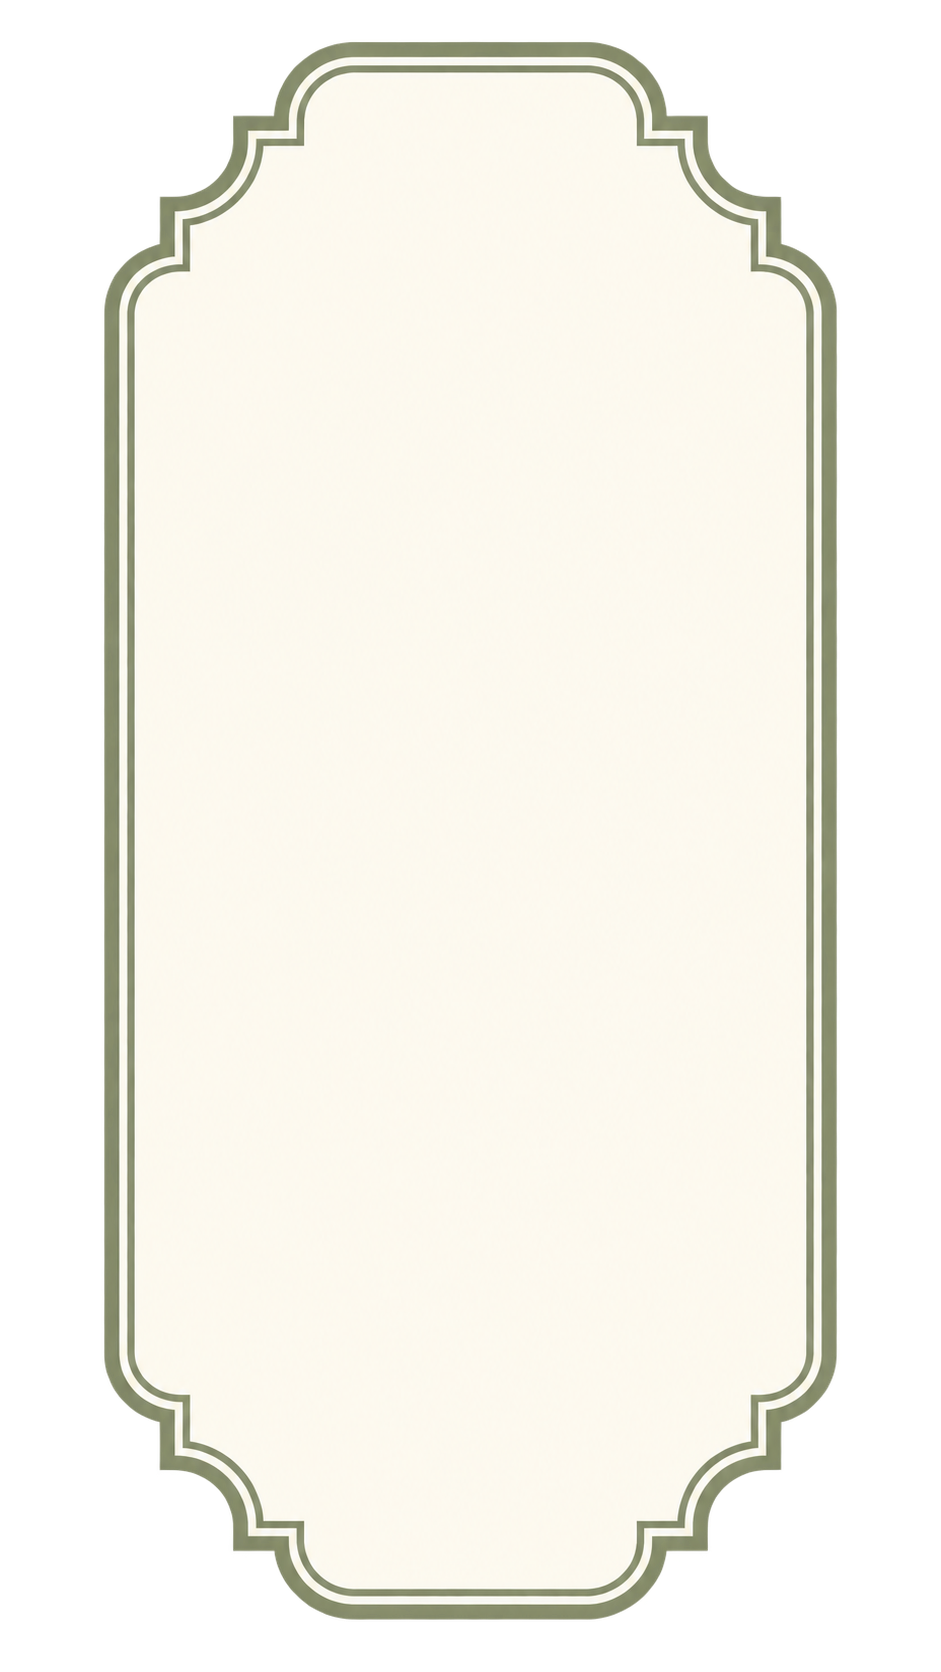
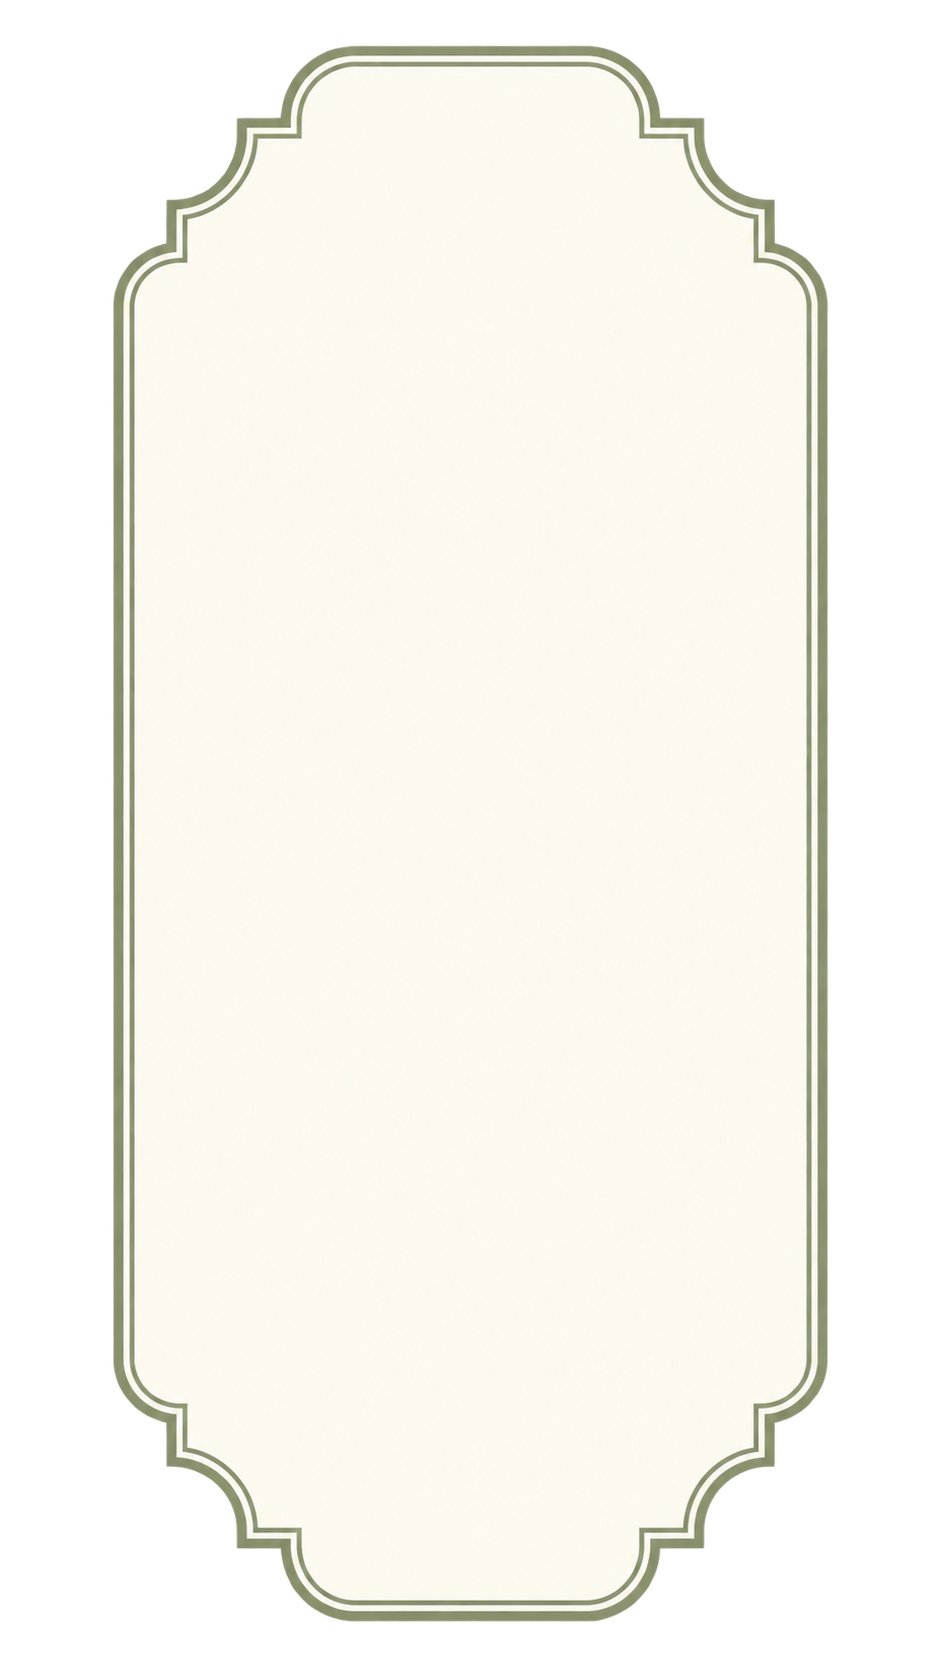
Swap in the new landscape photo, matching bracket, and repicked paper tone
landscape.jpg is now cropped (center crop, edges cut) from the new source
landscape.png to the same 2:3 aspect ratio as the old one. --paper is
re-sampled from its top edge (a picked-for-now color — not yet chosen for
overall cohesion with the new photo) and vila-sketch.jpg's baked duotone
tone regenerated to match, so the villa/headline area still has no seam
against the page background. Also picks up the already-swapped
bottom-bracket.png (same dimensions, no CSS changes needed).

Changed region(s): [[0.0925, 0.0311, 0.8937, 0.9641]]

diff --git a/index.html b/index.html
@@ -21,9 +21,9 @@
   @import url('https://fonts.googleapis.com/css2?family=Alex+Brush&family=Cormorant+Garamond:wght@400;500;600&family=Cormorant+SC:wght@500&family=Pinyon+Script&display=swap');
 
   :root{
-    --paper:#f2ede1; /* matches the average color sampled from landscape.jpg's top edge pixels,
-                         so the villa sketch band above meets the landscape band below with no
-                         visible seam — no gradient blend needed since the colors are identical */
+    --paper:#f3efe8; /* sampled from the current landscape.jpg's top edge pixels (swapped in
+                         2026-09-15 — a picked-for-now color, not yet chosen for overall
+                         cohesion with the new photo) */
     --card:rgba(99,115,83,0.08);
     --card-border:rgba(99,115,83,0.35);
     --ink:#647353;
